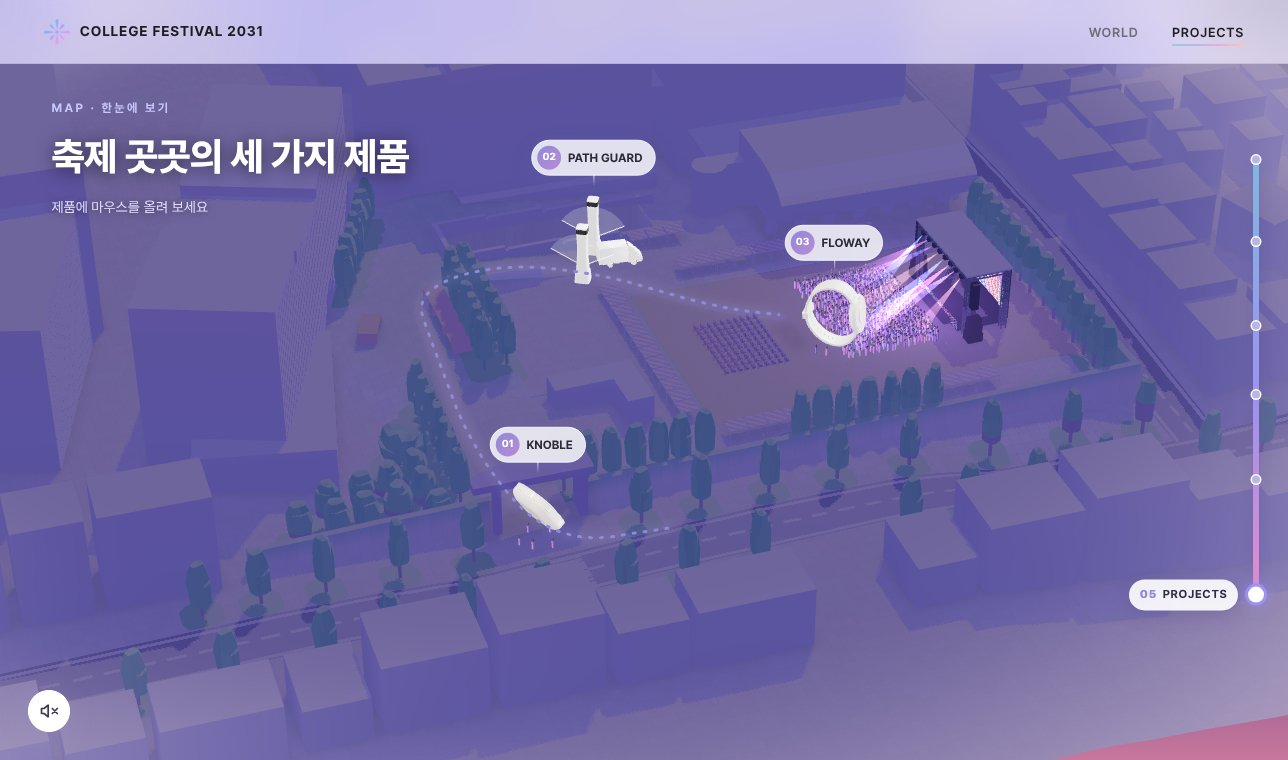
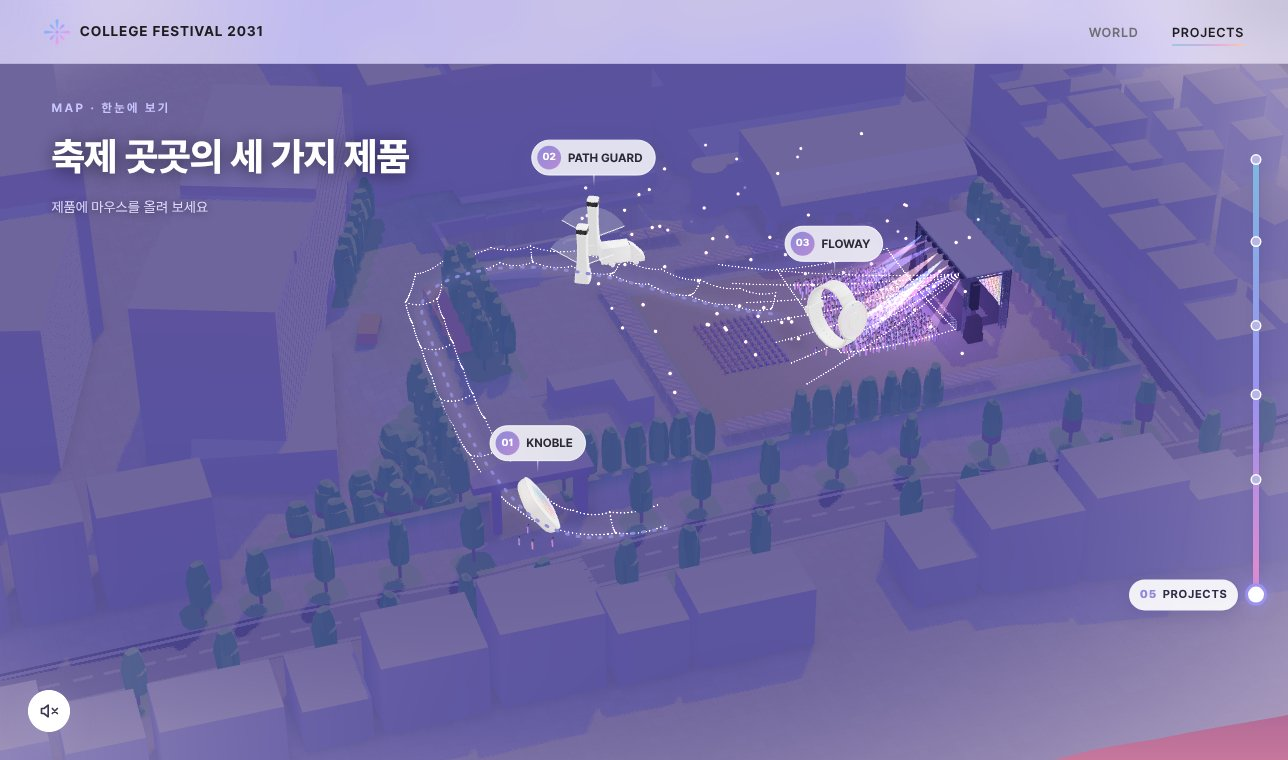
축제 분위기 꾸미기: 산책로 양옆·지그재그 줄 전구, 운동장 둘레·무대에서 뻗는 전구줄, 밤에 떠오르는 풍등, 하늘 불꽃놀이 (처음·걷기·마지막 지도 모두)
Claude-Session: https://claude.ai/code/session_01MVD1fmE3ZHHAawXfDg3rwx

Changed region(s): [[0.5901, 0.3026, 0.7453, 0.4842], [0.3727, 0.5447, 0.4658, 0.6961], [0.4658, 0.3329, 0.4969, 0.3632]]

diff --git a/assets/js/main.js b/assets/js/main.js
@@ -642,6 +642,64 @@ function drawCrowd(M,t){const C=FP.crowd;if(!C)return;const g=MGL.g;
   g.vertexAttribPointer(C.a[0],3,g.FLOAT,false,40,0);g.vertexAttribPointer(C.a[1],3,g.FLOAT,false,40,12);g.vertexAttribPointer(C.a[2],4,g.FLOAT,false,40,24);
   g.drawArrays(g.TRIANGLES,0,C.n);C.a.forEach(a=>g.disableVertexAttribArray(a));}
 
+/* ---- festival dressing: string lights along the walk and the playground, sky lanterns, fireworks at night ---- */
+(function initFestLights(){
+  if(!MGL)return;const g=MGL.g;
+  const vs=`attribute vec3 aP;attribute vec2 aD;uniform mat4 uM;uniform float uT,uN,uS;varying vec3 vC;varying float vA;
+void main(){vec3 p=aP;float k=aD.x,ph=aD.y;vec3 c;
+ if(k>9.5){float H=70.;p.z+=mod(uT*(2.2+fract(ph*7.)*1.6)+ph*H,H);p.x+=sin(uT*.4+ph*6.)*3.;c=vec3(1.,.78,.55);vA=uN*smoothstep(0.,6.,mod(uT*(2.2+fract(ph*7.)*1.6)+ph*H,H))*(1.-smoothstep(56.,70.,mod(uT*(2.2+fract(ph*7.)*1.6)+ph*H,H)));}
+ else{c=k<1.?vec3(.62,.82,1.):k<2.?vec3(.85,.74,1.):k<3.?vec3(1.,.70,.88):k<4.?vec3(1.,.88,.62):vec3(.72,1.,.86);
+  float tw=.75+.25*sin(uT*2.3+ph*40.);vA=mix(.55,1.,uN)*tw;}
+ vC=c;gl_Position=uM*vec4(p,1.);gl_PointSize=clamp(uS*(k>9.5?2.6:1.25)/gl_Position.w,2.2,k>9.5?30.:20.)*(1.+uN*.5);}`;
+  const fs=`precision mediump float;varying vec3 vC;varying float vA;
+void main(){vec2 d=gl_PointCoord-.5;float r=length(d)*2.;if(r>1.)discard;float core=smoothstep(.55,0.,r),glow=pow(1.-r,2.);
+ gl_FragColor=vec4(vC*(core*1.2+glow*.8)+core*.35,(core+glow*.6)*vA);}`;
+  const mk=(t,s)=>{const o=g.createShader(t);g.shaderSource(o,s);g.compileShader(o);if(!g.getShaderParameter(o,g.COMPILE_STATUS))console.warn(g.getShaderInfoLog(o));return o};
+  const p=g.createProgram();g.attachShader(p,mk(g.VERTEX_SHADER,vs));g.attachShader(p,mk(g.FRAGMENT_SHADER,fs));g.linkProgram(p);
+  if(!g.getProgramParameter(p,g.LINK_STATUS))return;
+  let seed=11;const R=()=>(seed=(seed*16807)%2147483647)/2147483647;
+  const D=[];const bulb=(x,y,z,k)=>D.push(x,y,z,k,R());
+  const garland=(a,b,sag,col0)=>{const L=Math.hypot(b[0]-a[0],b[1]-a[1]),n=Math.max(3,Math.round(L/2.2));
+    for(let i=0;i<=n;i++){const t=i/n;bulb(a[0]+(b[0]-a[0])*t,a[1]+(b[1]-a[1])*t,a[2]+(b[2]-a[2])*t-sag*4*t*(1-t),(col0+i)%5)}};
+  // along the walk: poles every ~24 units on both sides
+  const P=FP_PATH,poles=[[],[]];let acc=1e9;
+  for(let i=1;i<P.length;i++){acc+=Math.hypot(P[i][0]-P[i-1][0],P[i][1]-P[i-1][1]);if(acc<24)continue;acc=0;
+    const j=Math.min(P.length-1,i+1),dx=P[j][0]-P[i-1][0],dy=P[j][1]-P[i-1][1],l=Math.hypot(dx,dy)||1,nx=-dy/l,ny=dx/l;
+    [1,-1].forEach((s,k)=>poles[k].push([P[i][0]+nx*10*s,P[i][1]+ny*10*s,P[i][2]+11]))}
+  poles.forEach((row,k)=>{for(let i=1;i<row.length;i++)garland(row[i-1],row[i],2.4,k*2+i)});
+  // criss-cross over the walk every other pole
+  for(let i=1;i<Math.min(poles[0].length,poles[1].length);i+=2)garland(poles[0][i],poles[1][i],3,i);
+  // playground: a ring around the pit + rays from the stage
+  const pc=[[PIT.x0-8,PIT.y0-6],[PIT.x1+8,PIT.y0-6],[PIT.x1+8,PIT.y1+8],[PIT.x0-8,PIT.y1+8]];
+  for(let i=0;i<4;i++){const a=pc[i],b=pc[(i+1)%4];garland([a[0],a[1],12],[b[0],b[1],12],2.5,i)}
+  const st=[FP_STAGE[0],FP_STAGE[1]+14,22];
+  for(let i=0;i<7;i++){const x=PIT.x0-30+(PIT.x1-PIT.x0+60)*i/6;garland(st,[x,PIT.y1+40,10],4,i)}
+  // sky lanterns over the playground (night only)
+  for(let i=0;i<90;i++){D.push(PIT.x0-60+R()*(PIT.x1-PIT.x0+120),PIT.y0-30+R()*(PIT.y1-PIT.y0+170),18+R()*6,10,R())}
+  const buf=g.createBuffer();g.bindBuffer(g.ARRAY_BUFFER,buf);g.bufferData(g.ARRAY_BUFFER,new Float32Array(D),g.STATIC_DRAW);
+  FP.lights={p,buf,n:D.length/5,u:Object.fromEntries(['uM','uT','uN','uS'].map(k=>[k,g.getUniformLocation(p,k)])),a:['aP','aD'].map(k=>g.getAttribLocation(p,k))};
+})();
+function drawFestLights(M,t){const C=FP.lights;if(!C)return;const g=MGL.g;
+  g.useProgram(C.p);g.uniformMatrix4fv(C.u.uM,false,new Float32Array(M));g.uniform1f(C.u.uT,t);g.uniform1f(C.u.uN,FP.night||0);
+  g.uniform1f(C.u.uS,MGL.h*(window.devicePixelRatio>1?1.4:1)*1.2*(1+3.2*(1-(FP.kw??1))));   // overview is far away: bigger bulbs
+  g.bindBuffer(g.ARRAY_BUFFER,C.buf);C.a.forEach(a=>g.enableVertexAttribArray(a));
+  g.vertexAttribPointer(C.a[0],3,g.FLOAT,false,20,0);g.vertexAttribPointer(C.a[1],2,g.FLOAT,false,20,12);
+  g.enable(g.BLEND);g.blendFunc(g.SRC_ALPHA,g.ONE);g.depthMask(false);
+  g.drawArrays(g.POINTS,0,C.n);
+  g.depthMask(true);g.blendFunc(g.SRC_ALPHA,g.ONE_MINUS_SRC_ALPHA);C.a.forEach(a=>g.disableVertexAttribArray(a));}
+/* fireworks: behind the map (inside the sky layer), so buildings cover them */
+const FW={cv:null,c:null,ps:[],next:0};
+function tickFireworks(now,on){
+  if(!FW.cv){FW.cv=document.createElement('canvas');FW.cv.className='pj-fw';pjSky.appendChild(FW.cv);FW.c=FW.cv.getContext('2d')}
+  const W=pjSky.clientWidth,H=pjSky.clientHeight;if(FW.cv.width!==W||FW.cv.height!==H){FW.cv.width=W;FW.cv.height=H}
+  const c=FW.c;c.clearRect(0,0,W,H);if(!on&&!FW.ps.length)return;
+  if(on&&now>FW.next){FW.next=now+500+Math.random()*900;const x=W*(.15+Math.random()*.7),y=H*(.08+Math.random()*.3),cols=['#9CC8E2','#C9C6FF','#F2B6E3','#F8CAA7','#B5F0D4'],col=cols[Math.random()*5|0],n=46;
+    for(let i=0;i<n;i++){const a=i/n*6.283,s=1.2+Math.random()*1.6;FW.ps.push({x,y,vx:Math.cos(a)*s,vy:Math.sin(a)*s,l:1,col})}}
+  c.globalCompositeOperation='lighter';
+  FW.ps=FW.ps.filter(q=>{q.x+=q.vx;q.y+=q.vy;q.vy+=.025;q.vx*=.985;q.vy*=.985;q.l-=.012;if(q.l<=0)return false;
+    c.globalAlpha=q.l*q.l;c.fillStyle=q.col;c.beginPath();c.arc(q.x,q.y,1.8+q.l*1.4,0,6.283);c.fill();return true});
+  c.globalAlpha=1;c.globalCompositeOperation='source-over'}
+
 function drawMapGL(){
   if(!MGL)return;const {g,u}=MGL;
   const a=MGL.w/Math.max(1,MGL.h), P=M4.persp(FP.fov*Math.PI/180,a,FP.near||1.5,FP.far||3200);
@@ -655,7 +713,7 @@ function drawMapGL(){
   g.drawElements(g.TRIANGLES,MGL.n,g.UNSIGNED_SHORT,0);
   g.disableVertexAttribArray(MGL.loc);
   const t=performance.now()/1000;
-  drawCrowd(M,t);
+  drawCrowd(M,t); drawFestLights(M,t);
   drawBeams(M,e,t);
   if(!FP.ready)return;
   g.useProgram(FP.ip);g.uniformMatrix4fv(FP.iu.uM,false,new Float32Array(M));g.uniform3f(FP.iu.uCam,e[0],e[1],e[2]);g.uniform3fv(FP.iu.uL,TOON_SUN);
@@ -1224,7 +1282,7 @@ function tickFP(now){
   FP.items.forEach((it,i)=>{const tg=FP.act===i+1||FP.hover===i+1?1:0;it.glow=lerp(it.glow,tg,.08);
     it.hov=lerp(it.hov||0,FP.hover===i+1?1:0,.18);                                   // hover: +20%, clearly
     it.stopK=lerp(it.stopK||0,eIO(clamp(1-Math.abs(p-PJ_KN[i+1]-(i===1?.025:0))/.05)),.12)});   // at its stop: bigger
-  drawMapGL(); tickStars(now,r.top,p);
+  drawMapGL(); tickStars(now,r.top,p); tickFireworks(now,FP.night>.45);
   let truck=null;
   if(window.Prod3D&&Prod3D.ready&&FP.kw>.9&&p>.525&&p<.69){   // delivery truck drives the marked route between the PATH GUARD robots as you scroll
     const ul=range(p,.535,.67), u=eIO(ul), TS=15, q=routeAt(TRUCK_ROUTE,u);

diff --git a/index.html b/index.html
@@ -5,7 +5,7 @@
 <meta name="viewport" content="width=device-width, initial-scale=1">
 <title>College Festival 2031</title>
 <link rel="icon" type="image/png" href="assets/images/logo.png">
-<link rel="stylesheet" href="./assets/css/style.css?v=8b927132">
+<link rel="stylesheet" href="./assets/css/style.css?v=2306c9d3">
 </head>
 <body>
 
@@ -242,7 +242,7 @@
 <script src="./assets/js/map-data.js?v=7e177d92"></script>
 <script src="./assets/js/products-glb.js?v=a3bf6576"></script>
 <script src="./assets/js/prod3d.js?v=5c32cd55"></script>
-<script src="./assets/js/main.js?v=dca4c9bc"></script>
+<script src="./assets/js/main.js?v=75769bcd"></script>
 <script src="./assets/js/intro-flight.js?v=c060e2d9"></script>
 </body>
 </html>

diff --git a/assets/css/style.css b/assets/css/style.css
@@ -1234,6 +1234,7 @@ body:has(#detail.open) .snd,body:has(#detail.open) .day-clock{opacity:0;pointer-
 @media (max-width:800px){.p-card{grid-template-columns:1fr;grid-template-rows:auto 1fr;padding-top:90px}.pc-stage{height:44vh}}
 /* final map at night: keep text and labels readable */
 .pj-maphead span{color:#C9C6FF}.pj-maphead b{color:#fff;text-shadow:0 2px 18px rgba(0,0,0,.55)}.pj-maphead em{color:#E3DEFF;text-shadow:0 1px 10px rgba(0,0,0,.5)}
+.pj-fw{position:absolute;inset:0;width:100%;height:100%;pointer-events:none;z-index:3}
 /* ---- "하지만," glitch ---- */
 #turn.t-glitch .t-pre .t-h{animation:gMain 1.3s steps(1,end)}
 #turn.t-glitch .t-pre .t-h::before{animation:gA 1.3s steps(1,end)}

diff --git a/README.md b/README.md
@@ -17,7 +17,7 @@ MCUAI가 축제 공간에서 상황을 감지하고, 판단하고, 대응하는 
 | 02 | WORLD | 흩어진 카드에서 화면 전체 장면으로 확장, 왼쪽 알약 목록(Apple 기능 탐색 방식)에서 현재 챕터가 카드로 펼쳐지고 장면이 교차 전환. 위/아래 버튼·항목 클릭으로 이동 |
 | 02 | EPILOGUE | 흐르는 파스텔 그라데이션 위 AI 대화 (대화 흐름·고른 장소에 따라 색이 바뀜), 핵심 문장과 파동 |
 | — | QUESTION | "하지만," 글리치 등장 후 스크롤이 한 번 멈춤 → 어두운 3D 공간에 "과연" 질문 (오목 렌즈·비네트로 중앙 집중) → "이러한 문제를 해결하기 위한 3가지 제품" |
-| 03 | PROJECTS | "3가지 제품"의 구슬 세 개가 화면 위로 날아갔다가, 제품 모양(사이트 톤의 펄 파스텔 재질)으로 카메라 밖에서 들어와 화면 가까이 나선을 그리며 멀어짐 — 가까울 땐 아웃포커스, 카메라 앞을 지날 땐 화면이 바람에 흔들림 — 지도에 안착하면 각 GLB 원본 재질(PBR·텍스처·발광)로 렌더링. 캠퍼스 3D 지도를 1인칭으로 걸으며 제품 3개(KNOBLE → PATH GUARD → FLOWAY) 순서대로 방문. 걸을수록 해가 지고 무대 앞에 관객이 모임. 운동장 도착 후 전체 지도로 다시 올라가 제품 위치를 한눈에 보여 주고, 제품에 마우스를 올리면 전체 화면(왼쪽 설명·오른쪽 3D 모델)으로 소개 |
+| 03 | PROJECTS | "3가지 제품"의 구슬 세 개가 화면 위로 날아갔다가, 제품 모양(사이트 톤의 펄 파스텔 재질)으로 카메라 밖에서 들어와 화면 가까이 나선을 그리며 멀어짐 — 가까울 땐 아웃포커스, 카메라 앞을 지날 땐 화면이 바람에 흔들림 — 지도에 안착하면 각 GLB 원본 재질(PBR·텍스처·발광)로 렌더링. 캠퍼스 3D 지도를 1인칭으로 걸으며 제품 3개(KNOBLE → PATH GUARD → FLOWAY) 순서대로 방문. 걸을수록 해가 지고 무대 앞에 관객이 모임. 산책로·운동장에 줄 전구, 밤에는 풍등과 불꽃놀이. 운동장 도착 후 전체 지도로 다시 올라가 제품 위치를 한눈에 보여 주고, 제품에 마우스를 올리면 전체 화면(왼쪽 설명·오른쪽 3D 모델)으로 소개 |
 
 ### 사운드
 
